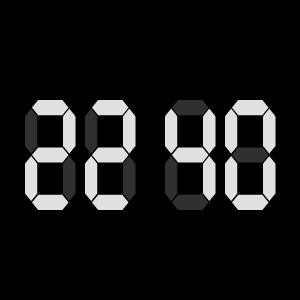
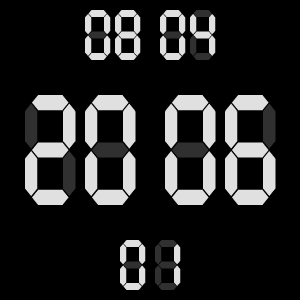
Change & fix the default configuration values

diff --git a/companion/index.ts b/companion/index.ts
@@ -39,10 +39,10 @@ if (!settingsStorage.getItem(SETTING_KEY_SHOW_SECONDS)) {
 	);
 }
 if (!settingsStorage.getItem(SETTING_KEY_DATE_FORMAT)) {
-	const dateFormat: SelectorSetting = {
-		values: [{ value: defaultConfig.dateFormat }],
-	};
-	settingsStorage.setItem(SETTING_KEY_DATE_FORMAT, JSON.stringify(dateFormat));
+	settingsStorage.setItem(
+		SETTING_KEY_DATE_FORMAT,
+		JSON.stringify({ selected: [0] }),
+	);
 }
 
 settingsStorage.addEventListener('change', () => {

diff --git a/settings/index.tsx b/settings/index.tsx
@@ -32,6 +32,9 @@ registerSettingsPage(() => (
 					{ name: gettext('mmdd'), value: 'mmdd' },
 					{ name: gettext('ddmm'), value: 'ddmm' },
 				]}
+				// eslint-disable-next-line @typescript-eslint/ban-ts-comment
+				// @ts-ignore
+				selected={[0]}
 				settingsKey={SETTING_KEY_DATE_FORMAT}
 			/>
 		</Section>

diff --git a/shared/config.ts b/shared/config.ts
@@ -28,7 +28,7 @@ export const defaultConfig: Config = {
 		on: activeColors.white,
 		off: inactiveColors.gray,
 	},
-	showSeconds: false,
-	showDate: false,
+	showSeconds: true,
+	showDate: true,
 	dateFormat: 'mmdd',
 };
